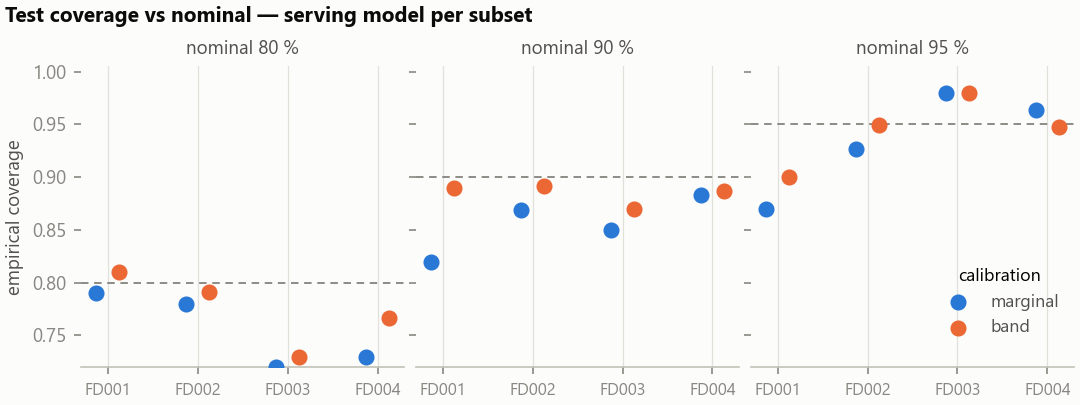
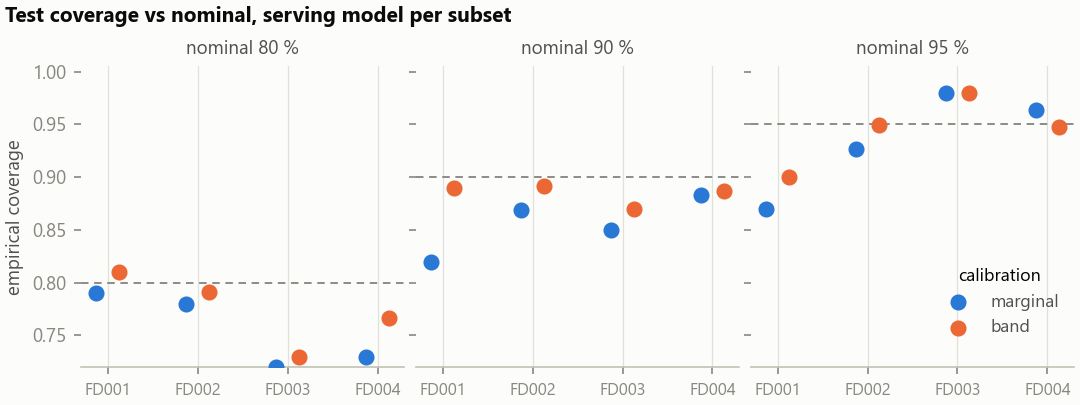
Figure titles: no em dashes (#2)

Changed region(s): [[0.2139, 0.0, 0.4889, 0.0593]]

diff --git a/scripts/make_figures.py b/scripts/make_figures.py
@@ -81,7 +81,7 @@ def fig_intervals(subset: str = "FD004") -> None:
     ax.set_ylim(0, cal.rul_cap * 1.04)
     ax.grid(axis="y")
     ax.legend(frameon=False, labelcolor=INK2, loc="upper right", fontsize=8.5)
-    _title(ax, f"Calibrated RUL intervals on {subset} — every engine gets an honest error bar")
+    _title(ax, f"Calibrated RUL intervals on {subset}: every test engine gets a 90 % interval")
     fig.savefig(OUT / f"intervals_{subset.lower()}.png", dpi=150)
     plt.close(fig)
 
@@ -108,7 +108,7 @@ def fig_coverage() -> None:
     fig.legend(frameon=False, labelcolor=INK2, loc="lower right",
                bbox_to_anchor=(0.995, 0.13), fontsize=8.5, title="calibration",
                title_fontsize=8.5)
-    fig.suptitle("Test coverage vs nominal — serving model per subset",
+    fig.suptitle("Test coverage vs nominal, serving model per subset",
                  x=0.005, ha="left", color=INK, fontsize=10, fontweight="bold")
     fig.savefig(OUT / "coverage.png", dpi=150)
     plt.close(fig)
@@ -130,7 +130,7 @@ def fig_rmse() -> None:
     ax.set_axisbelow(True)
     ax.legend(frameon=False, labelcolor=INK2, ncols=3, loc="upper left", fontsize=8.5)
     ax.set_ylim(0, 18)
-    _title(ax, "Point accuracy by subset — the boosted baseline is hard to beat")
+    _title(ax, "Point accuracy by subset: the boosted baseline is hard to beat")
     fig.savefig(OUT / "rmse.png", dpi=150)
     plt.close(fig)
 
